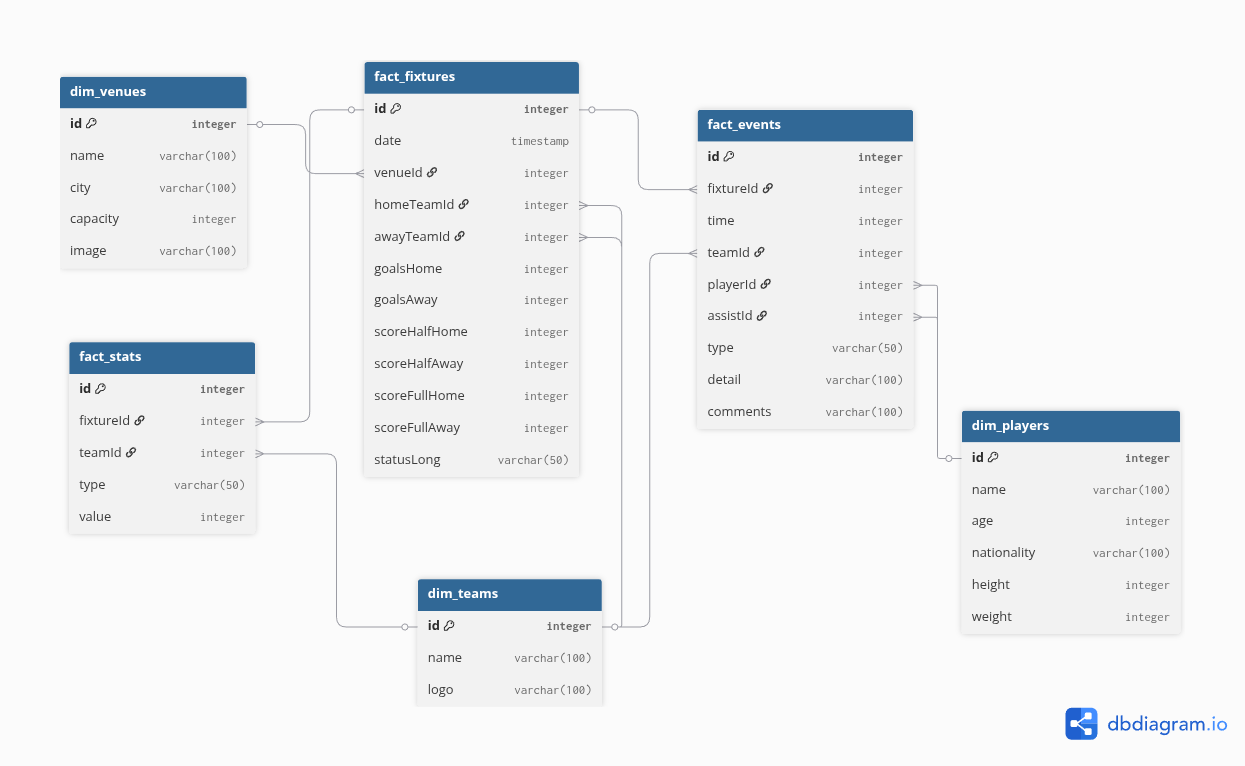
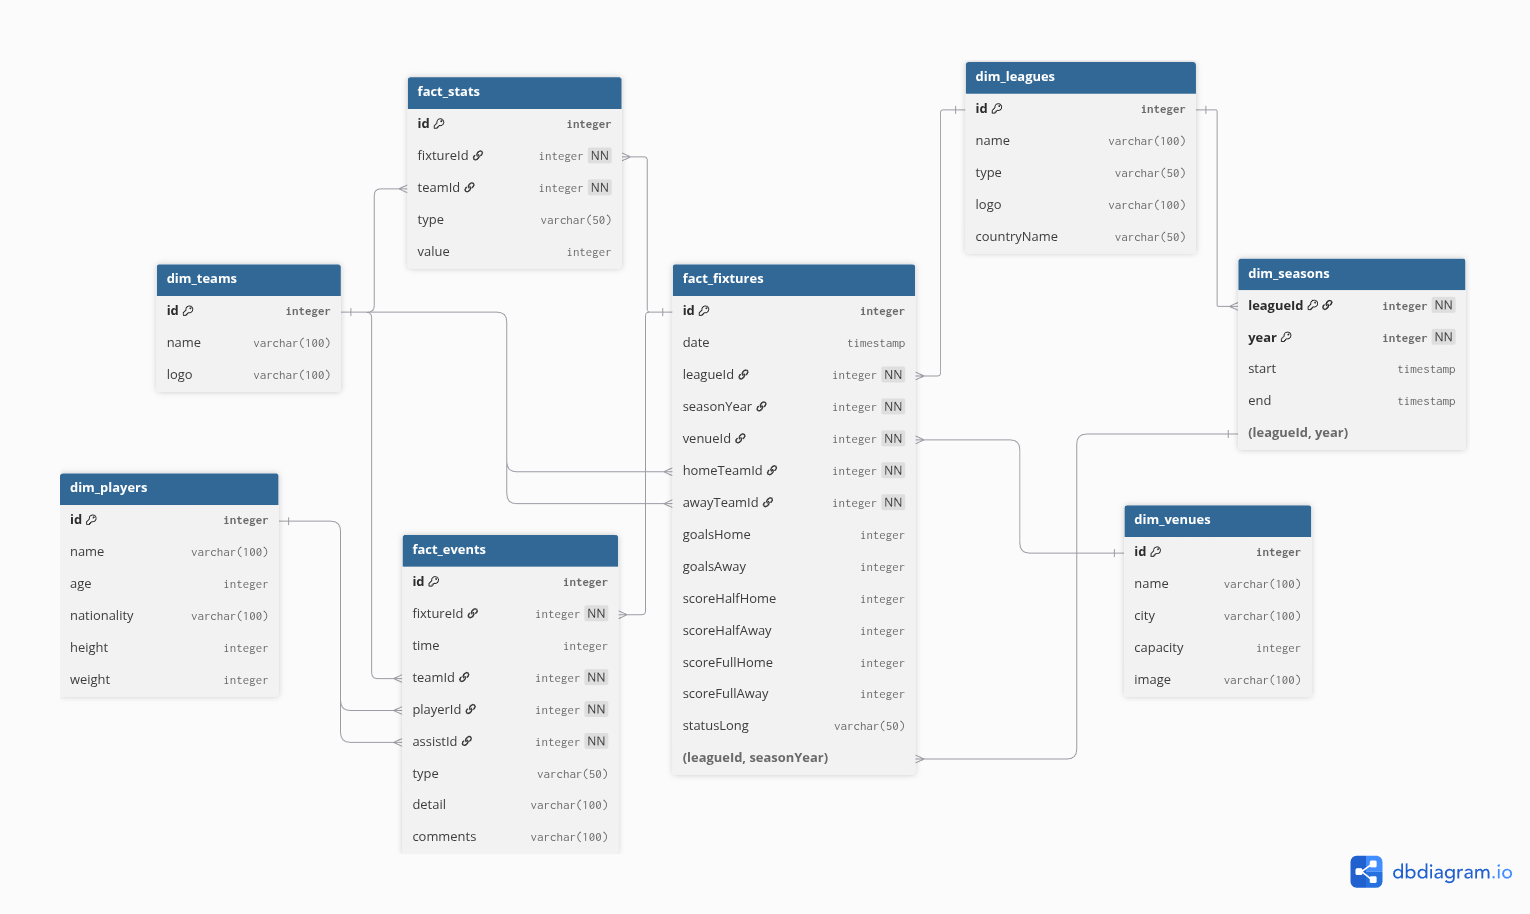
Atualizações

diff --git a/src/main.py b/src/main.py
@@ -1,4 +1,14 @@
-from transform import carregar_endpoint, criar_fixtures, criar_teams, criar_venues, criar_players, criar_events, criar_stats,criar_leagues, criar_seasons
+from transform import (
+    carregar_endpoint, 
+    criar_fixtures, 
+    criar_teams, 
+    criar_venues, 
+    criar_players, 
+    criar_events, 
+    criar_stats, 
+    criar_leagues, 
+    criar_seasons
+)
 
 # partidas
 df_fixtures = carregar_endpoint("fixtures")
